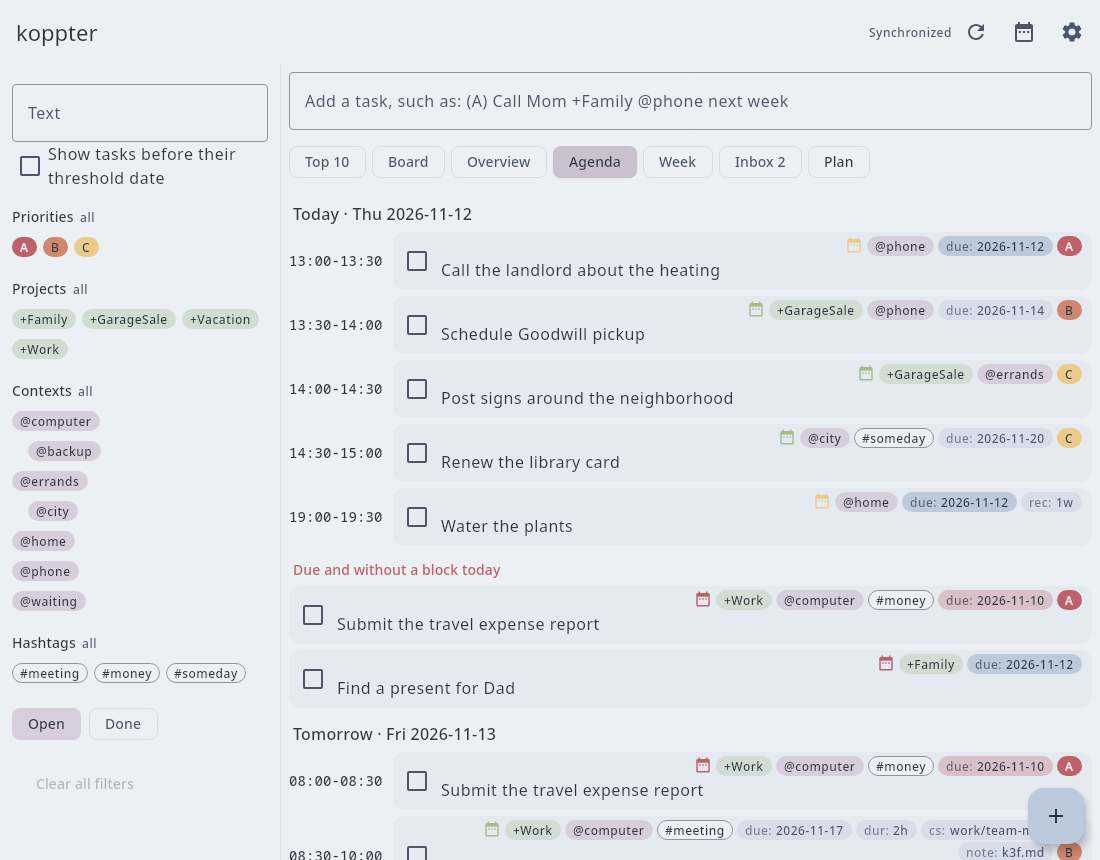
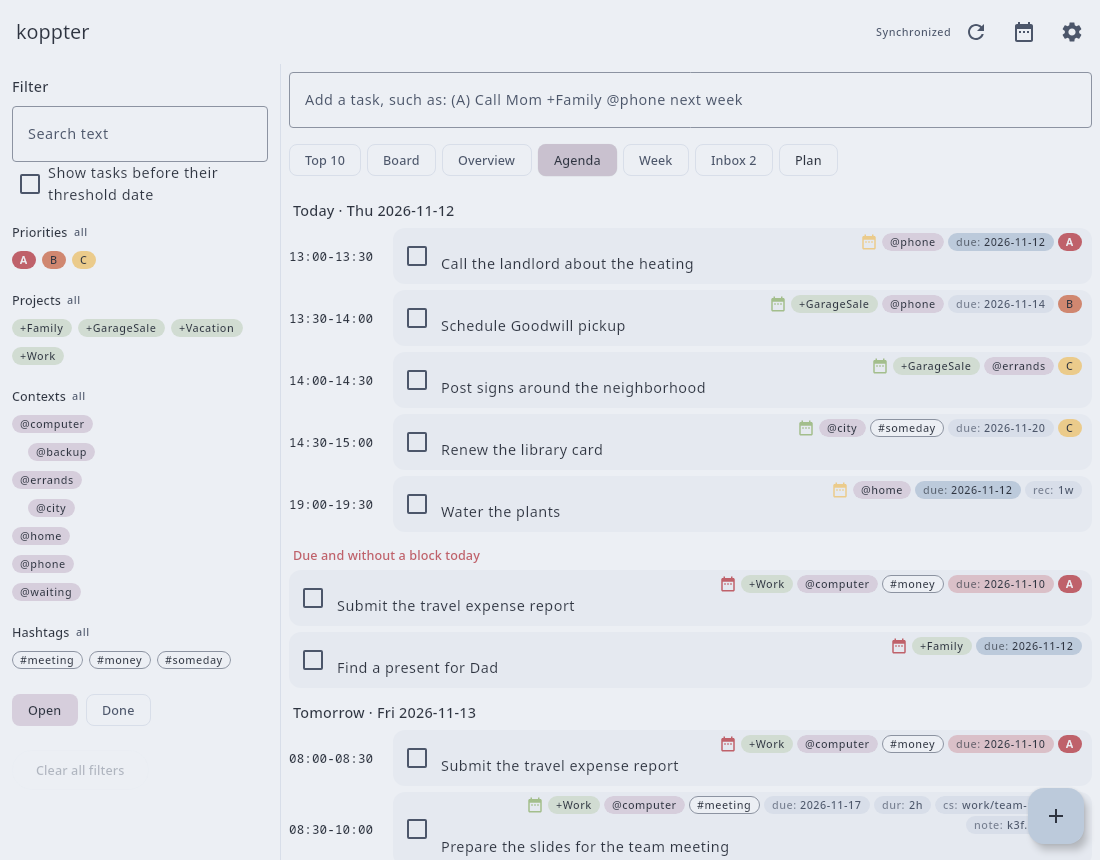
Reduce the type scale and let the week fill the window
Texts are a tenth smaller, which also keeps a field at the same height whether it is empty or filled.
The filter panel has a heading instead of the label of its text field, and the hours of the week share the height that is left.

diff --git a/app/src/commonMain/kotlin/io/github/koppor/koppter/ui/Agenda.kt b/app/src/commonMain/kotlin/io/github/koppor/koppter/ui/Agenda.kt
@@ -21,6 +21,7 @@ import androidx.compose.foundation.layout.Column
 import androidx.compose.foundation.layout.ExperimentalLayoutApi
 import androidx.compose.foundation.layout.FlowRow
 import androidx.compose.foundation.layout.Row
+import androidx.compose.foundation.layout.fillMaxSize
 import androidx.compose.foundation.layout.fillMaxWidth
 import androidx.compose.foundation.layout.height
 import androidx.compose.foundation.layout.offset
@@ -117,7 +118,7 @@ fun Agenda(
     }
 }
 
-private val HOUR_HEIGHT = 48.dp
+private val MIN_HOUR_HEIGHT = 48.dp
 
 /** The blocks of the plan of one week as a calendar: one column per day, the time running down. */
 // [impl->dsn~agenda~1]
@@ -143,13 +144,15 @@ fun Week(blocks: List<TextBlock>?, entryOf: (TextBlock) -> Entry?, today: LocalD
             if (monday != thisWeek) TextButton(onClick = { monday = thisWeek }, modifier = Modifier.testTag("week-today")) { Text("This week") }
         }
         if (blocks == null) Text(NO_PLAN, Modifier.padding(8.dp))
-        BoxWithConstraints(Modifier.verticalScroll(rememberScrollState())) {
+        BoxWithConstraints(Modifier.fillMaxSize()) {
             // On a phone, the days keep a readable width and the week scrolls sideways.
             val dayWidth = maxOf(110.dp, (maxWidth - 44.dp) / 7)
-            Row(Modifier.horizontalScroll(rememberScrollState())) {
-                Column(Modifier.width(44.dp).padding(top = 28.dp)) {
+            // The hours share the height that is left; in a low window they keep a readable height and the week scrolls.
+            val hourHeight = maxOf(MIN_HOUR_HEIGHT, (maxHeight - 28.dp) / (lastHour - firstHour))
+            Row(Modifier.verticalScroll(rememberScrollState()).horizontalScroll(rememberScrollState())) {
+                Column(Modifier.width(44.dp).padding(top = 28.dp).testTag("week-hours")) {
                     for (hour in firstHour until lastHour) {
-                        Text("${hour.toString().padStart(2, '0')}:00", Modifier.height(HOUR_HEIGHT), style = MaterialTheme.typography.labelSmall)
+                        Text("${hour.toString().padStart(2, '0')}:00", Modifier.height(hourHeight), style = MaterialTheme.typography.labelSmall)
                     }
                 }
                 for (day in days) {
@@ -161,10 +164,10 @@ fun Week(blocks: List<TextBlock>?, entryOf: (TextBlock) -> Entry?, today: LocalD
                             modifier = Modifier.height(28.dp).padding(start = 4.dp),
                         )
                         Box(
-                            Modifier.fillMaxWidth().height(HOUR_HEIGHT * (lastHour - firstHour))
+                            Modifier.fillMaxWidth().height(hourHeight * (lastHour - firstHour))
                                 .background(if (day == today) MaterialTheme.colorScheme.surfaceVariant else Color.Transparent),
                         ) {
-                            for (hour in 0 until lastHour - firstHour) HorizontalDivider(Modifier.offset(y = HOUR_HEIGHT * hour))
+                            for (hour in 0 until lastHour - firstHour) HorizontalDivider(Modifier.offset(y = hourHeight * hour))
                             for (block in ofWeek.filter { it.date == day }) {
                                 val entry = entryOf(block)
                                 Surface(
@@ -172,8 +175,8 @@ fun Week(blocks: List<TextBlock>?, entryOf: (TextBlock) -> Entry?, today: LocalD
                                     contentColor = if (entry != null) MaterialTheme.colorScheme.onPrimaryContainer else MaterialTheme.colorScheme.onSurfaceVariant,
                                     shape = MaterialTheme.shapes.extraSmall,
                                     modifier = Modifier.padding(horizontal = 2.dp).fillMaxWidth()
-                                        .offset(y = HOUR_HEIGHT * (block.span.start - firstHour * 60) / 60)
-                                        .height(HOUR_HEIGHT * block.span.length / 60)
+                                        .offset(y = hourHeight * (block.span.start - firstHour * 60) / 60)
+                                        .height(hourHeight * block.span.length / 60)
                                         .clickable(enabled = entry != null) { entry?.let(onOpen) }
                                         .testTag("week-block"),
                                 ) {

diff --git a/app/src/desktopTest/kotlin/io/github/koppor/koppter/ui/AppTest.kt b/app/src/desktopTest/kotlin/io/github/koppor/koppter/ui/AppTest.kt
@@ -45,6 +45,7 @@ import io.github.koppor.koppter.storage.TodoStorage
 import kotlinx.datetime.LocalDate
 import kotlin.test.Test
 import kotlin.test.assertEquals
+import kotlin.test.assertTrue
 
 private class MemoryStorage(var text: String) : TodoStorage, CompanionFiles {
     val companions = mutableMapOf<String, String>()
@@ -414,10 +415,21 @@ class AppTest {
         assertEquals("Water plants @home", storage.text.trim().lines().last())
     }
 
+    @Test
+    fun aFieldOfOneLineKeepsItsHeightWhenTextIsTyped() = runComposeUiTest {
+        start()
+        for (tag in listOf("filter-text", "quick-add")) {
+            val empty = onNodeWithTag(tag).fetchSemanticsNode().size.height
+            onNodeWithTag(tag).performTextInput("mom")
+            assertEquals(empty, onNodeWithTag(tag).fetchSemanticsNode().size.height, tag)
+        }
+    }
+
     // [utest->dsn~filter-panel~1]
     @Test
     fun theFilterPanelRestrictsTheList() = runComposeUiTest {
         start()
+        onNodeWithTag("filter-heading").assertTextEquals("Filter")
         onNodeWithTag("filter-project-GarageSale").assertIsOff().performClick()
         onAllNodesWithTag("task").assertCountEquals(2)
         onNodeWithTag("filter-project-GarageSale").assertIsOn()
@@ -720,6 +732,9 @@ class AppTest {
 
         onNodeWithTag("week-title").assertTextEquals("Week 46 · 2026-11-09 to 2026-11-15")
         onAllNodesWithTag("week-block").assertCountEquals(3)
+        // The hours share the height of the window.
+        val window = onNodeWithTag("main-screen").fetchSemanticsNode().boundsInRoot.bottom
+        assertTrue(onNodeWithTag("week-hours").fetchSemanticsNode().boundsInRoot.bottom > window - 24f)
         onNodeWithTag("week-next").performClick()
         onAllNodesWithTag("week-block").assertCountEquals(0)
         onNodeWithTag("week-next").performClick()

diff --git a/app/src/commonMain/kotlin/io/github/koppor/koppter/ui/Theme.kt b/app/src/commonMain/kotlin/io/github/koppor/koppter/ui/Theme.kt
@@ -1,12 +1,14 @@
 package io.github.koppor.koppter.ui
 
 import androidx.compose.material3.ColorScheme
+import androidx.compose.material3.Typography
 import androidx.compose.material3.darkColorScheme
 import androidx.compose.material3.lightColorScheme
 import androidx.compose.runtime.staticCompositionLocalOf
 import androidx.compose.ui.graphics.Color
 import androidx.compose.ui.graphics.compositeOver
 import androidx.compose.ui.graphics.luminance
+import androidx.compose.ui.text.TextStyle
 import io.github.koppor.koppter.storage.ColorTheme
 
 /** The colors of the light or the dark variant of a published palette, named by their use in the application. */
@@ -158,4 +160,21 @@ fun colorScheme(theme: ColorTheme, dark: Boolean): ColorScheme {
             surfaceContainerHighest = raised,
         )
     }
+}
+
+/**
+ * The type scale of Material, a tenth smaller: its sizes are made for phones and look coarse in a window on a desktop.
+ * The smaller size also keeps a field of one line at its minimum height.
+ * Compose measures an empty line higher than a filled one, so a field of the default size shrinks with the first character typed.
+ */
+// [impl->dsn~main-screen~1]
+val compactTypography: Typography = Typography().run {
+    fun TextStyle.compact() = copy(fontSize = fontSize * 0.9f, lineHeight = lineHeight * 0.9f)
+    Typography(
+        displayLarge.compact(), displayMedium.compact(), displaySmall.compact(),
+        headlineLarge.compact(), headlineMedium.compact(), headlineSmall.compact(),
+        titleLarge.compact(), titleMedium.compact(), titleSmall.compact(),
+        bodyLarge.compact(), bodyMedium.compact(), bodySmall.compact(),
+        labelLarge.compact(), labelMedium.compact(), labelSmall.compact(),
+    )
 }

diff --git a/app/src/commonMain/kotlin/io/github/koppor/koppter/ui/FilterPanel.kt b/app/src/commonMain/kotlin/io/github/koppor/koppter/ui/FilterPanel.kt
@@ -49,10 +49,11 @@ fun FilterPanel(
     textModifier: Modifier = Modifier,
 ) {
     Column(modifier.verticalScroll(rememberScrollState()).padding(12.dp).testTag("filter-panel")) {
+        Text("Filter", style = MaterialTheme.typography.titleMedium, modifier = Modifier.padding(bottom = 8.dp).testTag("filter-heading"))
         OutlinedTextField(
             value = filter.text,
             onValueChange = { onChange(filter.copy(text = it)) },
-            label = { Text("Text") },
+            placeholder = { Text("Search text") },
             singleLine = true,
             modifier = textModifier.fillMaxWidth().testTag("filter-text"),
         )

diff --git a/app/src/commonMain/kotlin/io/github/koppor/koppter/ui/App.kt b/app/src/commonMain/kotlin/io/github/koppor/koppter/ui/App.kt
@@ -116,7 +116,7 @@ fun App(
             }
         }
     }
-    MaterialTheme(colorScheme = colorScheme(controller.settings.theme, dark)) {
+    MaterialTheme(colorScheme = colorScheme(controller.settings.theme, dark), typography = compactTypography) {
         CompositionLocalProvider(
             LocalUriHandler provides uriHandler,
             LocalShowContext provides { controller.filter = controller.filter.copy(contexts = setOf(it)) },

diff --git a/docs/requirements/ui.md b/docs/requirements/ui.md
@@ -315,7 +315,7 @@ Needs: impl, utest
 ### Filter panel
 `dsn~filter-panel~1`
 
-`FilterPanel` shows the criteria of `Filter`: the text as a text field and the threshold date as a checkbox at the top, and the completion state as the two switches *Open* and *Done* at the bottom, of which at least one is on.
+`FilterPanel` shows the criteria of `Filter` under the heading *Filter*: the text as a text field and the threshold date as a checkbox at the top, and the completion state as the two switches *Open* and *Done* at the bottom, of which at least one is on.
 Priorities, projects, contexts and hashtags are shown as the labels that the task list uses for them.
 The selected values stand beside the title of the criterion and the other values below it, both sorted; a click on a label moves it to the other group.
 From a width of 840 dp on, the main screen places the panel beside the list; below that, the panel is the content of a navigation drawer.
@@ -331,6 +331,7 @@ Needs: impl, utest
 
 The main screen consists of the top bar, the filter panel, the quick add field, the task list and a button for a new task.
 Errors of the storage are shown in a snackbar.
+The texts use the type scale of Material reduced by a tenth (`compactTypography`), which suits a window on a desktop and keeps a field of one line at the same height whether it is empty or filled.
 
 Covers:
 

diff --git a/docs/requirements/planning.md b/docs/requirements/planning.md
@@ -345,7 +345,7 @@ Needs: impl, utest
 `CalendarTxt.blocks` reads the blocks of `calendar.txt`; `TodoController.entryOf` finds the open task of a block by its text.
 `Agenda` shows today and the six days after it, each day that has blocks with its blocks in the order of time; a block shows its task as in the list, or its text if the task is no longer open under that text.
 Below the blocks of today, it lists the open tasks that are due today or earlier and have no block today (`TodoController.dueUnplanned`).
-`Week` shows the seven days of a week from Monday as columns with the hours running down, at least from 08:00 to 18:00, and each block at its time; buttons move by a week, and a click on a block opens its task.
+`Week` shows the seven days of a week from Monday as columns with the hours running down, at least from 08:00 to 18:00, and each block at its time; the hours share the height of the window and are at least 48 dp high; buttons move by a week, and a click on a block opens its task.
 Both views show what the file says and do not plan.
 
 Covers:

diff --git a/CHANGELOG.md b/CHANGELOG.md
@@ -16,6 +16,12 @@ and this project adheres to [Calendar Versioning](https://calver.org/) with the 
 - Labels of the plan dialog that say that its fields are optional, in a smaller size, and the times and the barrier that hold without an entry.
 - Dates in words in the line typed above the list, such as `tomorrow`, `next week`, `by Wed` or `tomorrow 3pm`: the application shows and writes the tags they stand for.
 
+### Changed
+
+- Texts are a tenth smaller, and a field keeps its height when its first character is typed.
+- The filter panel has the heading *Filter*, and its text field shows *Search text* instead of the label *Text*.
+- The week stretches over the height of the window.
+
 ## [2026-11-12] - 2026-11-12
 
 ### Added
